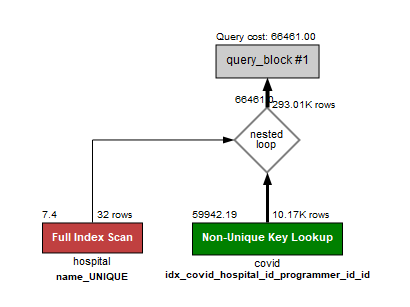
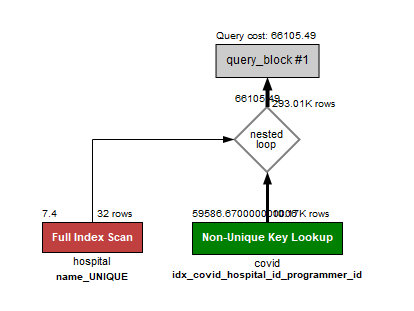
feat: index 내역 수정

Changed region(s): [[0.0878, 0.0879, 0.9073, 0.9381]]

diff --git a/result.md b/result.md
@@ -105,7 +105,7 @@ programmer -> hobby
 #### 쿼리
 
 ```sql
-select covid.id as covid_id, name as hospital_name, programmer_id 
+select name as hospital_name, programmer_id 
 from hospital
 join covid
 on hospital.id = hospital_id 
@@ -157,7 +157,7 @@ or years_coding = '0-2 years')
 
 hospital -> id(pk)
 
-covid -> programmer_id
+covid -> (programmer_id, hospital_id) 
 
 #### 비용
 
@@ -242,7 +242,7 @@ order by null
 
 hostpital -> name(unique)
 
-covid -> hospital_id
+covid -> hospital_id, programmer_id
 
 #### 비용
 
@@ -255,3 +255,4 @@ covid -> hospital_id
 #### 출력결과
 
 ![](./images/b5_query_result.PNG)
+
